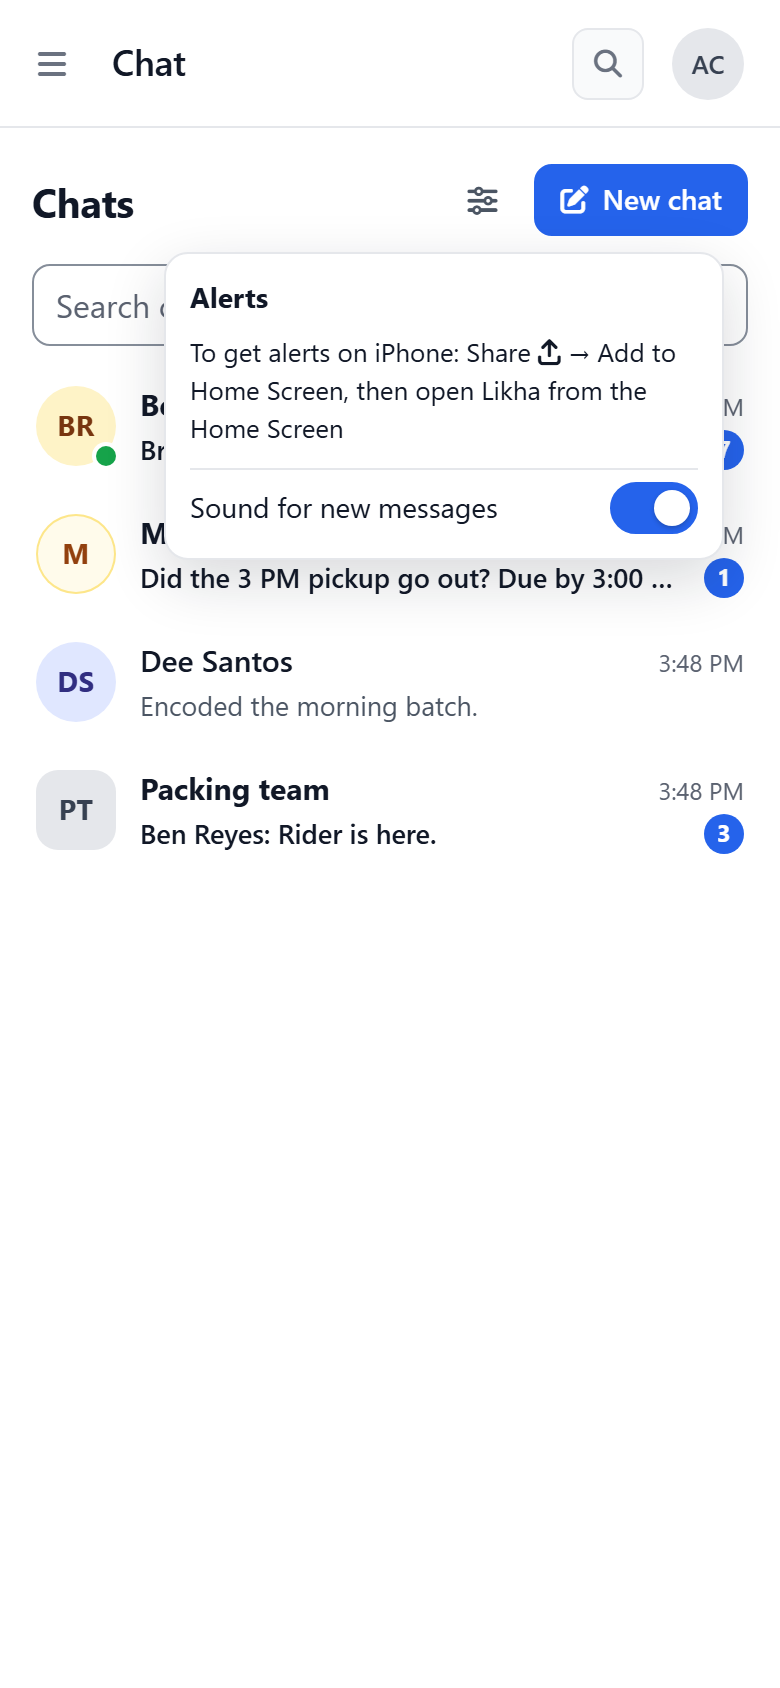
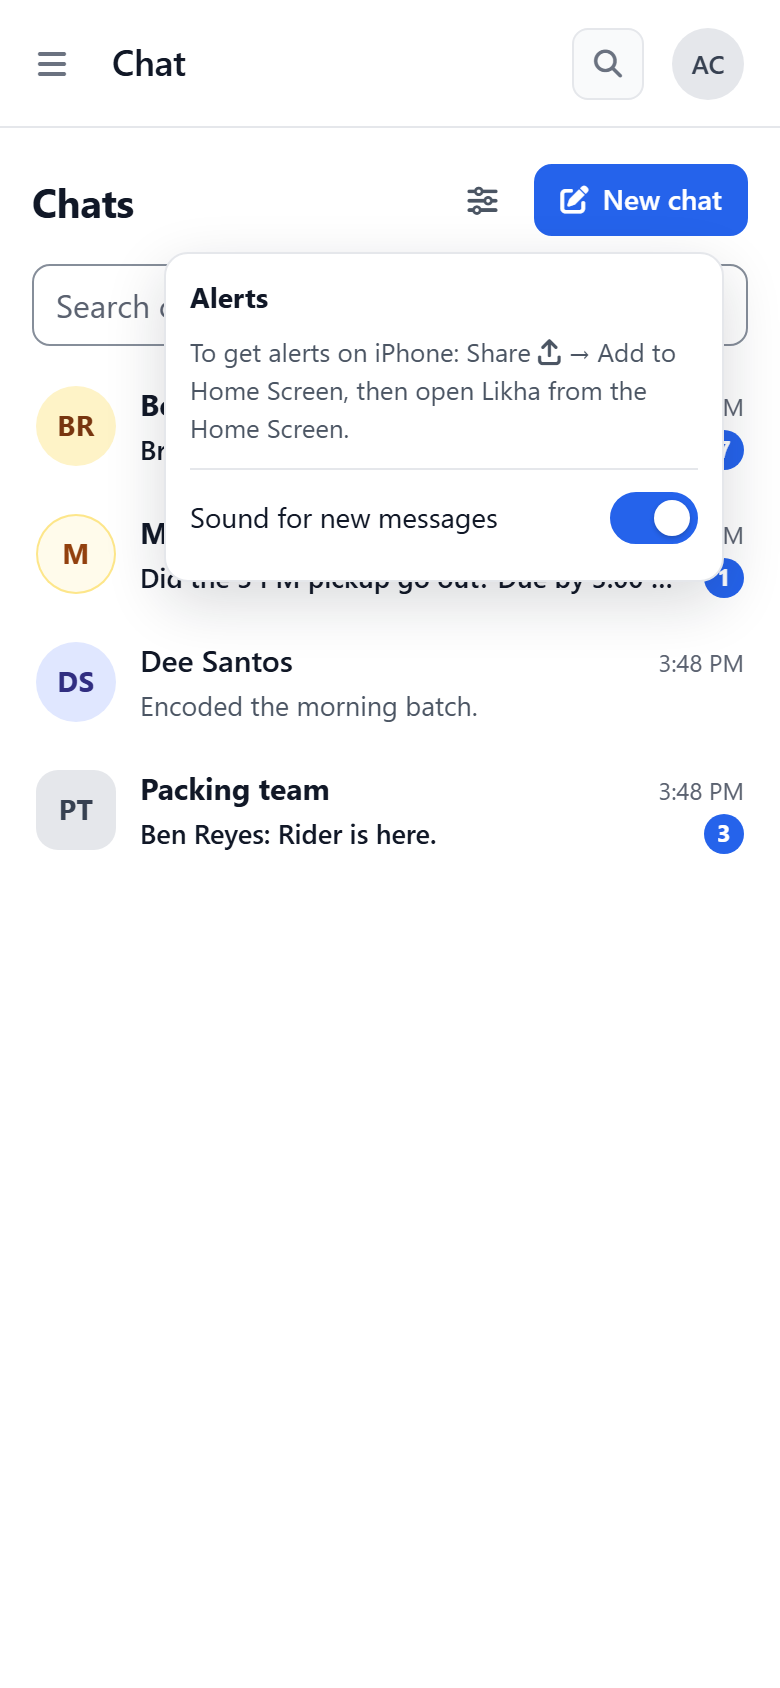
fix: alerts popover after critique and audit: focus follows the state, 44 px on phones, one live region, blocked and dismissed paths, offline keeps state (spec 308)

diff --git a/resources/views/chat/index.blade.php b/resources/views/chat/index.blade.php
@@ -307,8 +307,9 @@
   /* Spec 308: this device's alerts (web push) */
   .lc-pop .lc-push-on { display: flex; align-items: center; gap: 7px; margin: 0 0 4px; color: var(--lc-text); font-size: 14px; font-weight: 600; }
   .lc-push-on i { color: var(--lc-online); }
-  .lc-pop #lc-push-ios { color: var(--lc-text); line-height: 1.45; }
+  .lc-pop #lc-push-ios { line-height: 1.45; }
   .lc-push-btn { width: 100%; justify-content: center; }
+  .lc-push-btn[aria-disabled="true"] { opacity: .6; cursor: progress; }
   .lc-pop .lc-push-err { margin: 8px 0 0; color: var(--lc-danger); }
   .lc-mute-menu { right: 8px; width: 260px; padding: 4px; }
   .lc-mute-menu button { display: flex; width: 100%; gap: 10px; align-items: center; border: 0; background: transparent; padding: 9px 10px; border-radius: 8px; font-size: 14px; text-align: left; }
@@ -322,6 +323,10 @@
     .lc-rbar button { width: 44px; height: 44px; }
     .lc-reacts { min-height: 30px; }
     .lc-mute-menu button { min-height: 44px; }
+    /* Spec 308: the alert buttons and the Sound switch get a 44 px touch area on phones. */
+    .lc-push-btn { min-height: 44px; }
+    .lc-switch { min-height: 44px; }
+    .lc-switch button::before { content: ""; position: absolute; inset: -9px -4px; }
     .lc-tools { opacity: 1; }
     .lc-msg:not(.show) .lc-tools:not(:focus-within) { opacity: 0; pointer-events: none; }
     .lc-tools .lc-icon-btn { width: 40px; height: 40px; }
@@ -351,11 +356,14 @@
         <div class="lc-pop" id="lc-alerts" role="dialog" aria-label="Alerts" hidden>
           <h3>Alerts</h3>
           @if (!empty($boot['push_key']))
-            <p class="lc-push-on" id="lc-push-status" hidden><i class="fa-solid fa-circle-check" aria-hidden="true"></i> Alerts on for this device</p>
-            <p id="lc-notif-text" aria-live="polite">Get alerts on this device for new messages, even when Likha is closed.</p>
-            <p id="lc-push-ios" hidden>To get alerts on iPhone: Share <i class="fa-solid fa-arrow-up-from-bracket" aria-hidden="true"></i> → Add to Home Screen, then open Likha from the Home Screen</p>
+            {{-- One live region: the state, its line and the iPhone steps are announced together. --}}
+            <div aria-live="polite">
+              <p class="lc-push-on" id="lc-push-status" hidden><i class="fa-solid fa-circle-check" aria-hidden="true"></i> Alerts on for this device</p>
+              <p id="lc-notif-text">Get alerts on this device for new messages, even when Likha is closed.</p>
+              <p id="lc-push-ios" hidden>To get alerts on iPhone: Share <i class="fa-solid fa-arrow-up-from-bracket" aria-hidden="true"></i> <span aria-hidden="true">→</span><span class="lc-sr">, then</span> Add to Home Screen, then open Likha from the Home Screen.</p>
+            </div>
             <button type="button" class="lc-btn primary lc-push-btn" id="lc-notif-allow">Turn on alerts</button>
-            <button type="button" class="lc-btn lc-push-btn" id="lc-push-off" hidden>Turn off</button>
+            <button type="button" class="lc-btn lc-push-btn" id="lc-push-off" aria-describedby="lc-push-status" hidden>Turn off</button>
             <p class="lc-push-err" id="lc-push-err" role="alert" hidden></p>
           @else
             <p id="lc-notif-text">Get a notification when a message arrives in a chat that is not open.</p>
@@ -878,7 +886,7 @@
         await api('POST', '/chat/push', sub.toJSON());
       }
       pushFlag.set(true); P.state = 'on';
-    } catch (e) { P.state = 'off'; }
+    } catch (e) { P.state = pushFlag.get() ? 'on' : 'off'; } // offline: keep what this device last knew
   }
   async function subscribe() {
     const reg = await pushReg();
@@ -896,12 +904,12 @@
     P.busy = true; P.error = ''; renderAlerts();
     try {
       const perm = await Notification.requestPermission();
-      if (perm !== 'granted') { P.state = perm === 'denied' ? 'blocked' : 'off'; return; }
+      if (perm !== 'granted') { P.state = perm === 'denied' ? 'blocked' : 'off'; if (perm !== 'denied') P.error = 'Alerts were not turned on. Tap Turn on alerts, then Allow.'; return; }
       const sub = await subscribe();
       await api('POST', '/chat/push', sub.toJSON());
       pushFlag.set(true); P.state = 'on';
     } catch (e) {
-      P.error = 'Could not turn on alerts. Try again.';
+      P.error = navigator.onLine === false ? 'No connection. Check your internet and try again.' : 'Could not turn on alerts. Try again.';
     } finally { P.busy = false; renderAlerts(); focusPush(); }
   }
   async function turnOff() {
@@ -911,7 +919,7 @@
       if (sub) { await api('DELETE', '/chat/push', { endpoint: sub.endpoint }); await sub.unsubscribe(); }
       pushFlag.set(false); P.state = 'off';
     } catch (e) {
-      P.error = 'Could not turn off alerts. Try again.';
+      P.error = navigator.onLine === false ? 'No connection. Check your internet and try again.' : 'Could not turn off alerts. Try again.';
     } finally { P.busy = false; renderAlerts(); focusPush(); }
   }
   function focusPush() {
@@ -921,7 +929,7 @@
   const PUSH_TEXT = {
     off: 'Get alerts on this device for new messages, even when Likha is closed.',
     on: 'New messages show here even when Likha is closed. Muted chats stay quiet.',
-    blocked: 'Alerts are blocked for Likha in this browser. Allow notifications in the site settings, then try again.',
+    blocked: 'Alerts are blocked for Likha in this browser. Tap the icon left of the address, open Permissions or Notifications, choose Allow, then open this again.',
     unsupported: 'This browser cannot get alerts when Likha is closed. Likha plays the sound while it is open.',
   };
   function renderPush() {
@@ -932,11 +940,11 @@
     $('lc-notif-text').textContent = PUSH_TEXT[s] || '';
     const allow = $('lc-notif-allow');
     allow.hidden = s !== 'off';
-    allow.disabled = P.busy;
+    allow.setAttribute('aria-disabled', String(P.busy)); // not disabled: focus stays on the button
     allow.textContent = P.busy && s === 'off' ? 'Turning on…' : 'Turn on alerts';
     const off = $('lc-push-off');
     off.hidden = s !== 'on';
-    off.disabled = P.busy;
+    off.setAttribute('aria-disabled', String(P.busy));
     off.textContent = P.busy && s === 'on' ? 'Turning off…' : 'Turn off';
     $('lc-push-err').hidden = !P.error;
     $('lc-push-err').textContent = P.error;
@@ -958,7 +966,16 @@
     closePops();
     if (!opening) return;
     renderAlerts(); $('lc-alerts').hidden = false; $('lc-alerts-btn').setAttribute('aria-expanded', 'true');
-    if (PUSH_KEY) { focusPush(); if (!P.busy) pushRefresh().then(() => { if (!$('lc-alerts').hidden) renderAlerts(); }); return; }
+    if (PUSH_KEY) {
+      focusPush();
+      // The state can change on refresh (e.g. off → on): keep focus on the control that is shown now.
+      if (!P.busy) pushRefresh().then(() => {
+        if ($('lc-alerts').hidden || P.busy) return;
+        const here = $('lc-alerts').contains(document.activeElement) || document.activeElement === document.body;
+        renderAlerts(); if (here) focusPush();
+      });
+      return;
+    }
     ($('lc-notif-allow').hidden ? $('lc-sound') : $('lc-notif-allow')).focus();
   });
   // Asks the browser once, only on this click (never on load).

diff --git a/docs/design/308-chat-web-push/review.md b/docs/design/308-chat-web-push/review.md
@@ -1,0 +1,57 @@
+# 308 design review: the Alerts popover (web push), critique and audit
+
+Method: dual-agent critique (A: design review, B: detector), as two isolated sub-agents. The audit was done in this session from the code and the rendered page. Screenshots: headless Chrome over CDP of `php artisan serve` on 127.0.0.1, against a local sqlite file seeded with placeholder people (no real data). The first shots are in `before-fixes/`; the shots in this folder were taken after the fixes.
+
+## Critique (A): 29/36 before fixes (Flexibility and efficiency: n/a, set once per device)
+| # | Heuristic | Score |
+|---|---|---|
+| 1 | Visibility of system status | 3 |
+| 2 | Match with the real world | 3 |
+| 3 | User control and freedom | 3 |
+| 4 | Consistency and standards | 3 |
+| 5 | Error prevention | 3 |
+| 6 | Recognition rather than recall | 3 |
+| 7 | Flexibility and efficiency | n/a |
+| 8 | Aesthetic and minimalist design | 4 |
+| 9 | Error recovery | 2 |
+| 10 | Help and documentation | 3 |
+
+**Verdict.** The popover is authored for Likha. It extends the 300 popover without changing its look, writes the state as a sentence (brief §2), and never prompts on load. The weak points are the in-between moments and the touch size.
+
+**Strengths.**
+- A calm "on" state: green check, ink text, and a secondary Turn off.
+- No permission prompt on load, and a quiet re-subscribe when the browser rotates the subscription.
+- The notification collapses per chat with "3 new messages · …". This was proved with a real FCM push to headless Chrome.
+
+## Detector (B)
+- Source scan of the three blade files: exit 0, no findings. The source scan is regex-only, so B also scanned the rendered `/chat` page.
+- Rendered `/chat`: exit 2, 3 warnings, all **inherited** and none in 308's lines:
+  - the pulsing typing dots (300);
+  - the recording dot (300);
+  - the "New messages" pill's blue shadow (296).
+- The first two show live state and are behind `prefers-reduced-motion`, so they are false positives. The third is offset and on a light page, so it is mostly a false positive and outside 308's scope.
+- The live overlay could not be injected (B had no browser tool).
+
+## Audit: 16/20 before fixes → 19/20 after
+| # | Dimension | Before | After | Key finding |
+|---|---|---|---|---|
+| 1 | Accessibility | 2 | 4 | Focus fell to `<body>` when the state changed or a button was disabled. "Alerts on" was outside the live region. The blocked state was a dead end. |
+| 2 | Performance | 4 | 4 | No fetch handler in the service worker and nothing cached. One `GET /chat/push` when the popover opens. |
+| 3 | Theming | 4 | 4 | Only existing tokens (`--lc-online`, `--lc-danger`, `--lc-text`). The app has no dark mode. |
+| 4 | Responsive | 3 | 4 | The new buttons were about 36 px high on phones. |
+| 5 | Implementation integrity | 3 | 3 | Detector clean on 308's lines. The 3 inherited warnings are left as they are (outside scope). |
+
+## Findings and what was done
+| Sev | Finding (source) | Done |
+|---|---|---|
+| P1 | Focus is lost when opening the popover changes the state, or while the button is busy (A, audit) | **Fixed.** After the refresh, focus moves to the control now shown, if focus was in the popover. While busy, `aria-disabled` replaces `disabled`, so focus stays and the click guard holds. Checked: turn on → Turn off focused; refresh off→on → Turn off; turn off → Turn on alerts. |
+| P1 | Buttons about 36 px high at 390 px; Sound switch 26 px (A, audit) | **Fixed.** On phones the alert buttons are 44 px (measured 44) and the switch row is 44 px, with the switch's touch area widened by a `::before`. |
+| P2 | Screen readers did not hear "Alerts on"; "Turn off" names no object (A) | **Fixed.** The state line, the text and the iPhone steps sit in one `aria-live="polite"` region. Turn off has `aria-describedby="lc-push-status"` ("Alerts on for this device"). The visible label stays "Turn off", as the spec words it. |
+| P2 | The blocked state says "try again" but has no button; "site settings" is vague (A) | **Fixed.** The text now gives the path: "Tap the icon left of the address, open Permissions or Notifications, choose Allow, then open this again." The popover re-checks the state each time it opens. |
+| P2 | Dismissing the browser dialog went silently back to off (A) | **Fixed.** It now shows "Alerts were not turned on. Tap Turn on alerts, then Allow." |
+| P3 | A failed refresh (offline) showed "off" on a device that has alerts on (A) | **Fixed.** The last state this device knew is kept. Offline errors say "No connection." |
+| P3 | The iPhone "→" is read as "right arrow"; no closing period; the line in ink colour looked heavier (A) | **Fixed.** The arrow is `aria-hidden` with ", then" for screen readers. The line has a full stop and uses the popover's muted text colour. |
+| Minor | Notifications and the badge are not cleared when the chat is read on another device (A) | **Left.** That needs a "read" push to every device, which is out of the spec's scope. The badge is reset by the next page poll or push. Noted in the result. |
+| Minor | The popover title says "Alerts" but the trigger is "Alerts and sound" (A) | **Left.** This is 300's wording, unchanged by 308. |
+| Minor | In a group, the "N new messages" count covers several senders while the title names the newest (A) | **Left on purpose.** It works like Messenger's thread notification. |
+| Inherited | Detector: pulsing dots ×2, pill shadow (B) | **Left.** These come from 296/300, are not in 308's lines, and are mostly false positives. |
